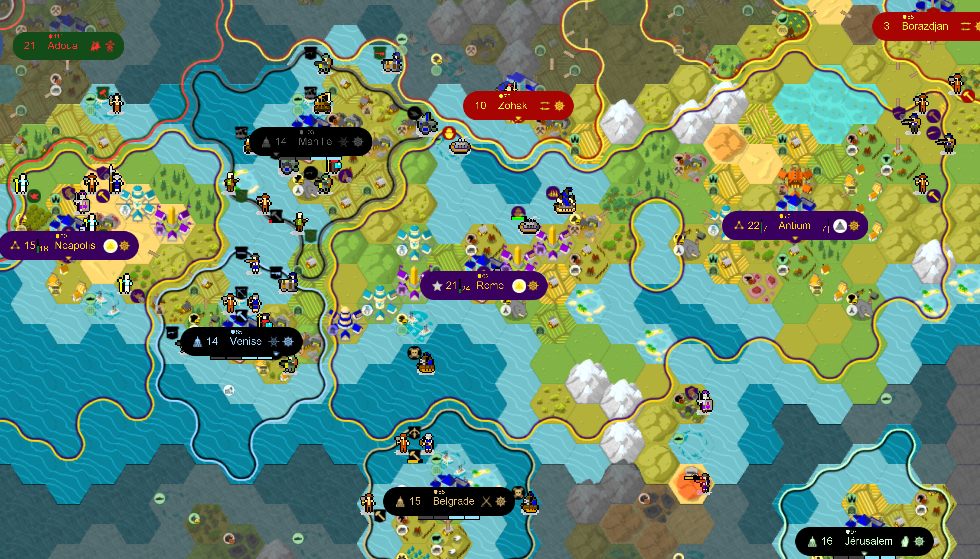
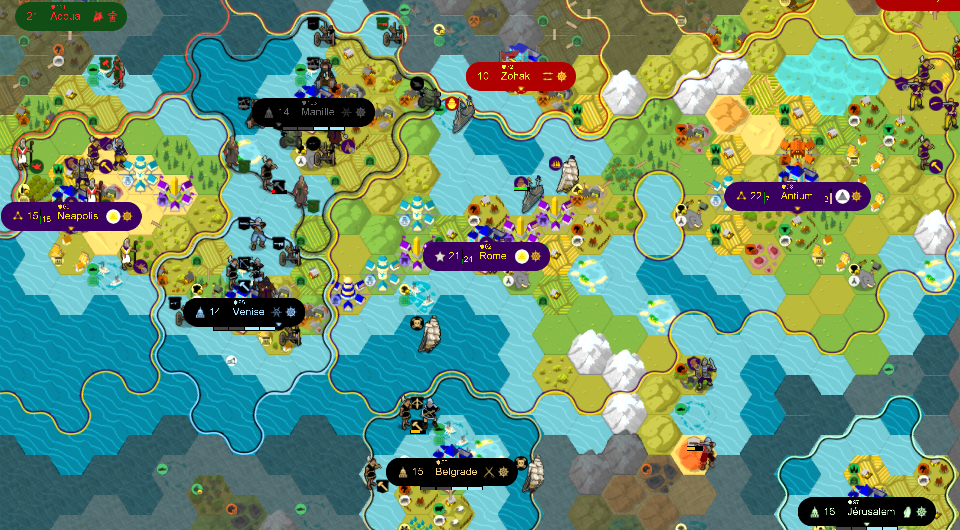
Make borders thinner and reduce the DMZ size (2nd attempt)

diff --git a/README.md b/README.md
@@ -1,6 +1,6 @@
 # Thin Bubbly Borders
 
-Latest version: July 19th, 2022
+Latest version: July 20th, 2022
 
 Original Bubbly Borders mod creator: [will-ca](https://github.com/will-ca/Bubbly-Borders-Example)
 
@@ -20,10 +20,10 @@ Compared to default borders, Thin Bubbly Borders makes:
 ---
 Changes:
 
-- Outer border thickness = -4px
-- Inner border thickness = -4px
-- Inner border offset = -3,2px
-- Inner border blur = -50%
+- Outer border thickness = -5px
+- Inner border thickness = -5px
+- Inner border offset = -4,2px
+- Inner border blur = -75%
 
 ---
 Installation:
